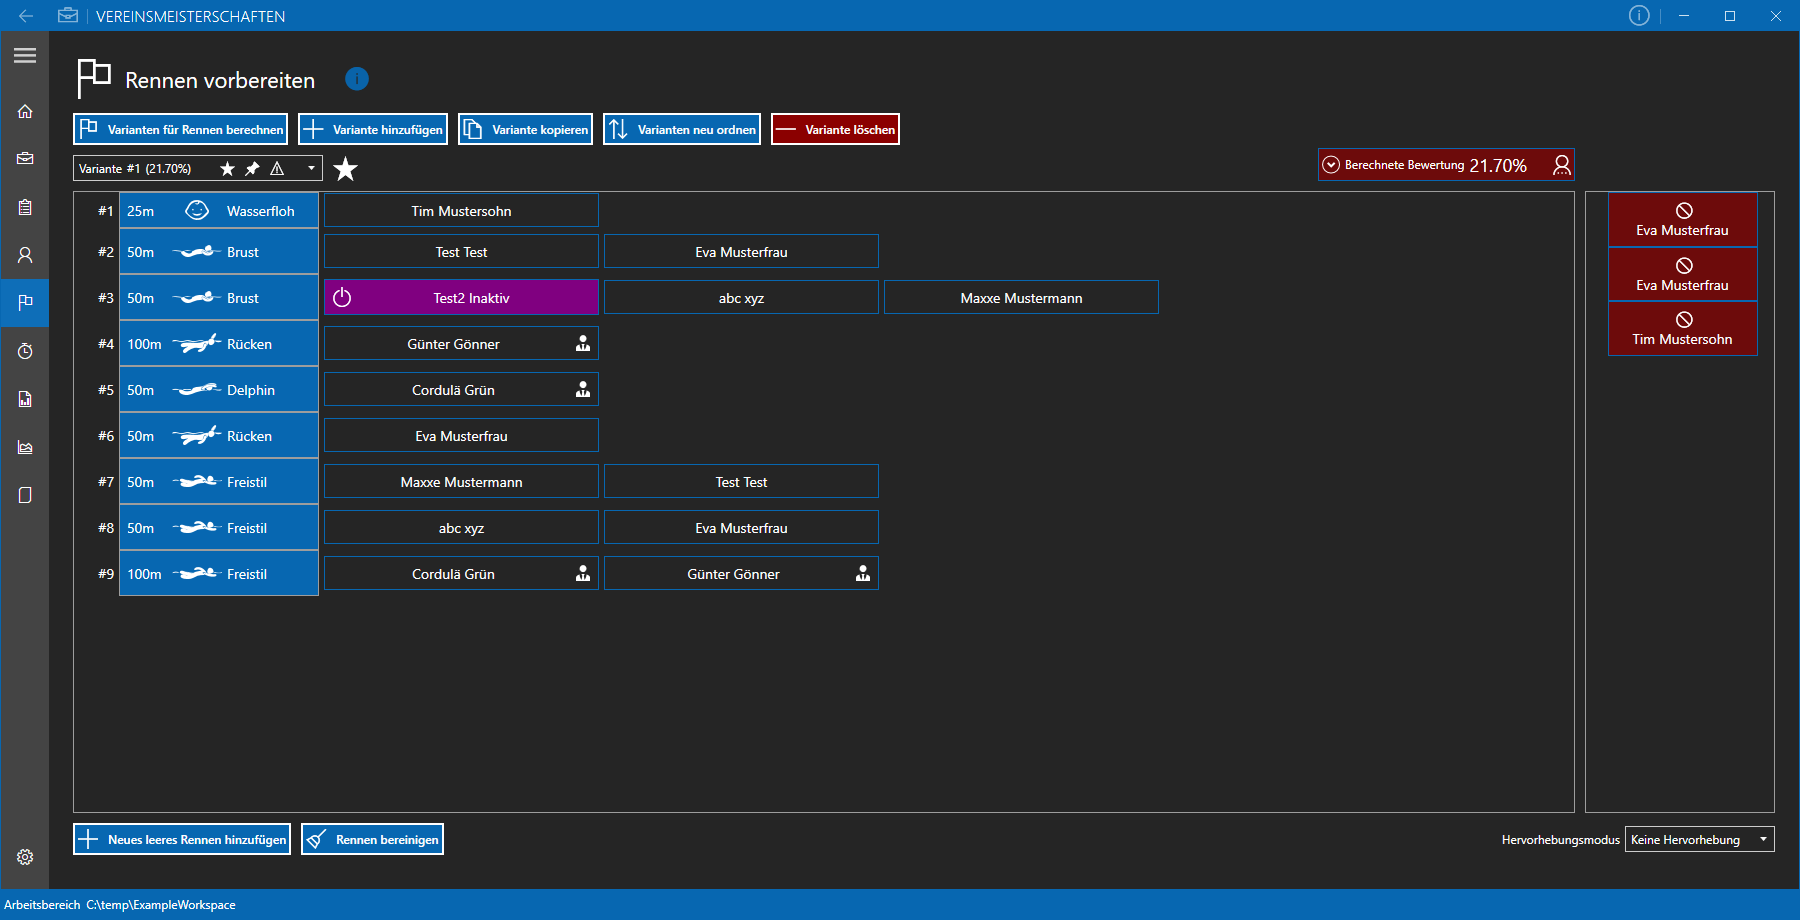
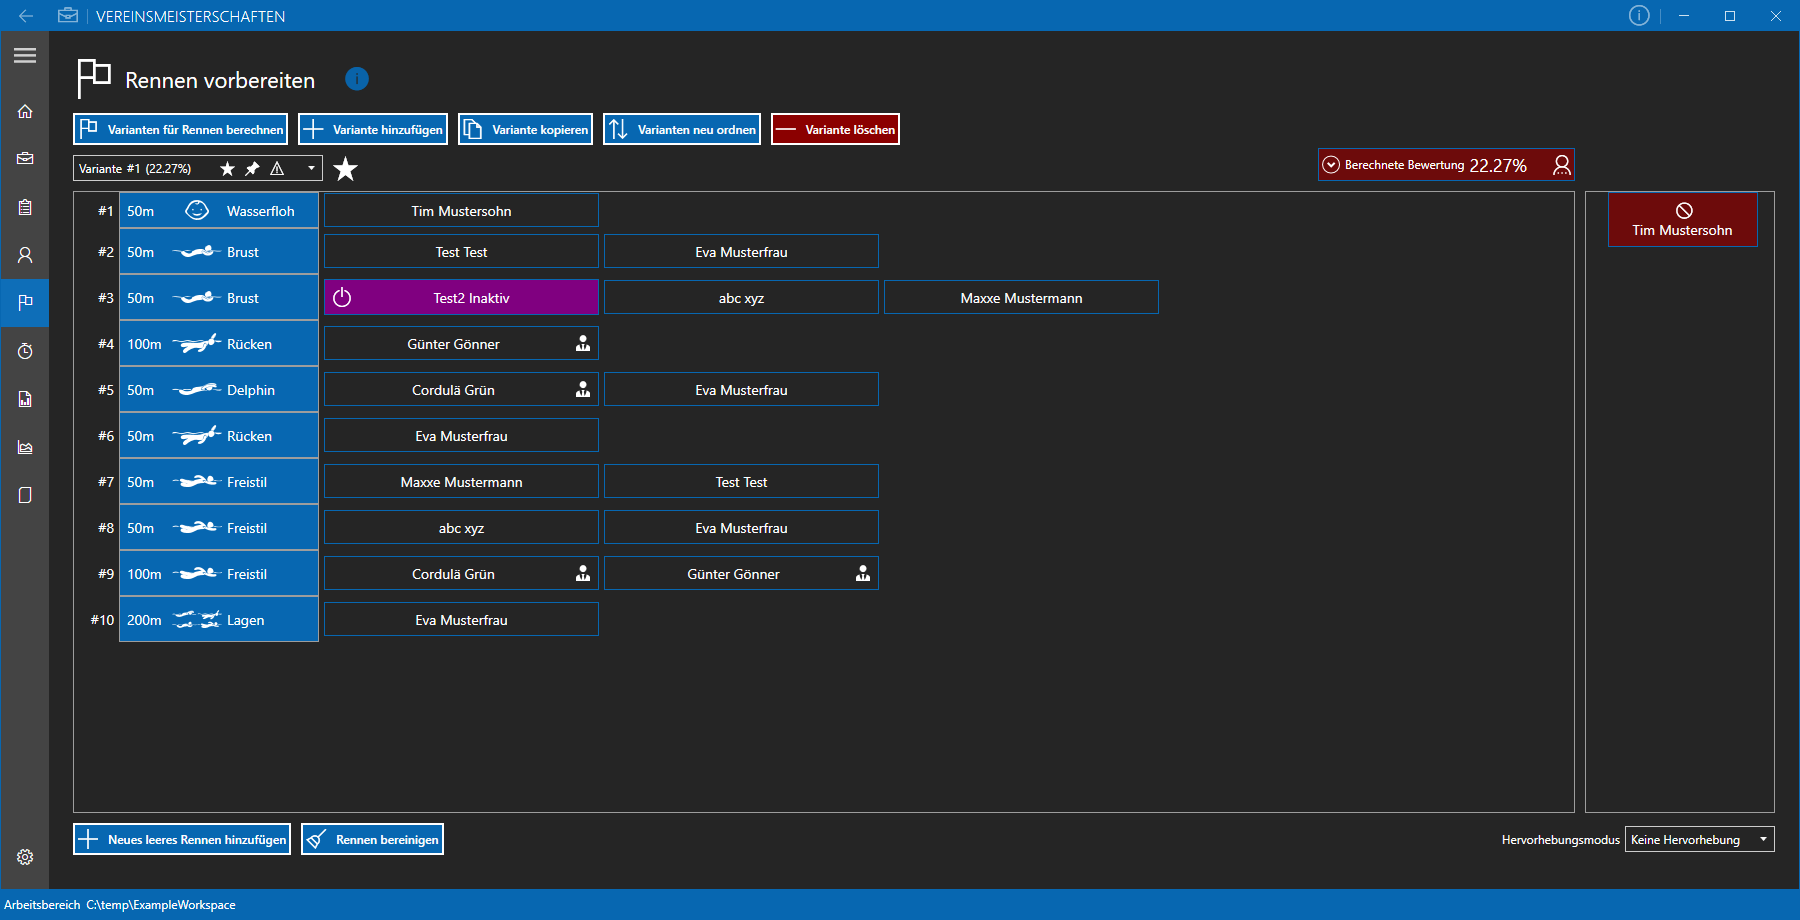
Bugfixes for rudolph table flags, updated competition times in example workspace from rudolph table

diff --git a/Vereinsmeisterschaften.Core/Services/CompetitionService.cs b/Vereinsmeisterschaften.Core/Services/CompetitionService.cs
@@ -119,11 +119,11 @@ namespace Vereinsmeisterschaften.Core.Services
                             return PropertyNameLocalizedStringHelper.FindProperty(typeof(Competition), header);
                         });
                         _competitionList = new ObservableCollection<Competition>();
-                        _competitionList.CollectionChanged += _competitionList_CollectionChanged;
                         foreach (Competition competition in list)
                         {
                             AddCompetition(competition);
                         }
+                        _competitionList.CollectionChanged += _competitionList_CollectionChanged;
                     }
 
                     _competitionListOnLoad = _competitionList.ToList().ConvertAll(c => new Competition(c));
@@ -236,11 +236,14 @@ namespace Vereinsmeisterschaften.Core.Services
         public void ResetToLoadedState()
         {
             if (_competitionListOnLoad == null) { return; }
+            _competitionList.CollectionChanged -= _competitionList_CollectionChanged;
             ClearAll();
             foreach (Competition competition in _competitionListOnLoad)
             {
                 AddCompetition(new Competition(competition));
             }
+            _competitionList.CollectionChanged += _competitionList_CollectionChanged;
+            UpdateAllCompetitionDistancesFromDistanceRules(true);
         }
 
         /// <summary>
@@ -294,7 +297,7 @@ namespace Vereinsmeisterschaften.Core.Services
             }
 
             UpdateAllCompetitionsForPerson();
-            UpdateCompetitionDistanceFromDistanceRules(sender as Competition);
+            UpdateCompetitionDistanceFromDistanceRules(sender as Competition, false);
             OnPropertyChanged(nameof(HasUnsavedChanges));
         }
 
@@ -451,20 +454,25 @@ namespace Vereinsmeisterschaften.Core.Services
         // ++++++++++++++++++++++++++++++++++++++++++++++++++++++++++++++++++++++++++++++++++++++++++++++++++++++++++++++++++++++++++++++++++++++++++++++
 
         /// <inheritdoc/>
-        public void UpdateCompetitionDistanceFromDistanceRules(Competition competition)
+        public void UpdateCompetitionDistanceFromDistanceRules(Competition competition, bool keepRudolphTableFlags)
         {
             if (competition == null) { return; }
+            bool isTimeFromRudolphTable = competition.IsTimeFromRudolphTable;
             competition.Distance = _competitionDistanceRuleService.GetCompetitionDistanceFromRules(competition.Age, competition.SwimmingStyle);
+            if(keepRudolphTableFlags)
+            {
+                competition.IsTimeFromRudolphTable = isTimeFromRudolphTable;
+            }
         }
 
         // ++++++++++++++++++++++++++++++++++++++++++++++++++++++++++++++++++++++++++++++++++++++++++++++++++++++++++++++++++++++++++++++++++++++++++++++
 
         /// <inheritdoc/>
-        public void UpdateAllCompetitionDistancesFromDistanceRules()
+        public void UpdateAllCompetitionDistancesFromDistanceRules(bool keepRudolphTableFlags)
         {
             foreach (Competition competition in _competitionList)
             {
-                UpdateCompetitionDistanceFromDistanceRules(competition);
+                UpdateCompetitionDistanceFromDistanceRules(competition, keepRudolphTableFlags);
             }
         }
 

diff --git a/Vereinsmeisterschaften.Core/Services/CompetitionDistanceRuleService.cs b/Vereinsmeisterschaften.Core/Services/CompetitionDistanceRuleService.cs
@@ -96,11 +96,11 @@ namespace Vereinsmeisterschaften.Core.Services
                             return PropertyNameLocalizedStringHelper.FindProperty(typeof(CompetitionDistanceRule), header);
                         });
                         _competitionDistanceRules = new ObservableCollection<CompetitionDistanceRule>();
-                        _competitionDistanceRules.CollectionChanged += _competitionDistanceRules_CollectionChanged;
                         foreach (CompetitionDistanceRule rule in list)
                         {
                             AddDistanceRule(rule);
                         }
+                        _competitionDistanceRules.CollectionChanged += _competitionDistanceRules_CollectionChanged;
                     }
 
                     _competitionDistanceRulesOnLoad = _competitionDistanceRules.ToList().ConvertAll(cr => new CompetitionDistanceRule(cr));
@@ -208,11 +208,13 @@ namespace Vereinsmeisterschaften.Core.Services
         public void ResetToLoadedState()
         {
             if (_competitionDistanceRulesOnLoad == null) { return; }
+            _competitionDistanceRules.CollectionChanged -= _competitionDistanceRules_CollectionChanged;
             ClearAll();
             foreach (CompetitionDistanceRule rule in _competitionDistanceRulesOnLoad)
             {
                 AddDistanceRule(new CompetitionDistanceRule(rule));
             }
+            _competitionDistanceRules.CollectionChanged += _competitionDistanceRules_CollectionChanged;
         }
 
         /// <inheritdoc/>

diff --git a/Vereinsmeisterschaften.Core/Contracts/Services/ICompetitionService.cs b/Vereinsmeisterschaften.Core/Contracts/Services/ICompetitionService.cs
@@ -76,12 +76,14 @@ namespace Vereinsmeisterschaften.Core.Contracts.Services
         /// Update the <see cref="Competition.Distance"/> from the matching <see cref="CompetitionDistanceRule"/>
         /// </summary>
         /// <param name="competition"><see cref="Competition"/> that is updated</param>
-        void UpdateCompetitionDistanceFromDistanceRules(Competition competition);
+        /// <param name="keepRudolphTableFlags">Set this to true to make sure that the rudolph table related flags aren't changed (otherwise changing the Distance will reset the flags)</param>
+        void UpdateCompetitionDistanceFromDistanceRules(Competition competition, bool keepRudolphTableFlags = false);
 
         /// <summary>
         /// Update the <see cref="Competition.Distance"/> from the matching <see cref="CompetitionDistanceRule"/> for all <see cref="Competition"/> objects.
         /// </summary>
-        void UpdateAllCompetitionDistancesFromDistanceRules();
+        /// <param name="keepRudolphTableFlags">Set this to true to make sure that the rudolph table related flags aren't changed (otherwise changing the Distance will reset the flags)</param>
+        void UpdateAllCompetitionDistancesFromDistanceRules(bool keepRudolphTableFlags = false);
 
         /// <summary>
         /// Update all <see cref="Competition.BestTime"/> properties from the given rudolph table.

diff --git a/Vereinsmeisterschaften.Core/Services/WorkspaceService.cs b/Vereinsmeisterschaften.Core/Services/WorkspaceService.cs
@@ -305,7 +305,7 @@ namespace Vereinsmeisterschaften.Core.Services
                 if(!openResult) { return openResult; }
                 
                 _competitionService.UpdateAllCompetitionsForPerson();
-                _competitionService.UpdateAllCompetitionDistancesFromDistanceRules();
+                _competitionService.UpdateAllCompetitionDistancesFromDistanceRules(true);
 
                 // Best Race
                 openResult = await _raceService.Load(filePathBestRace, cancellationToken);
